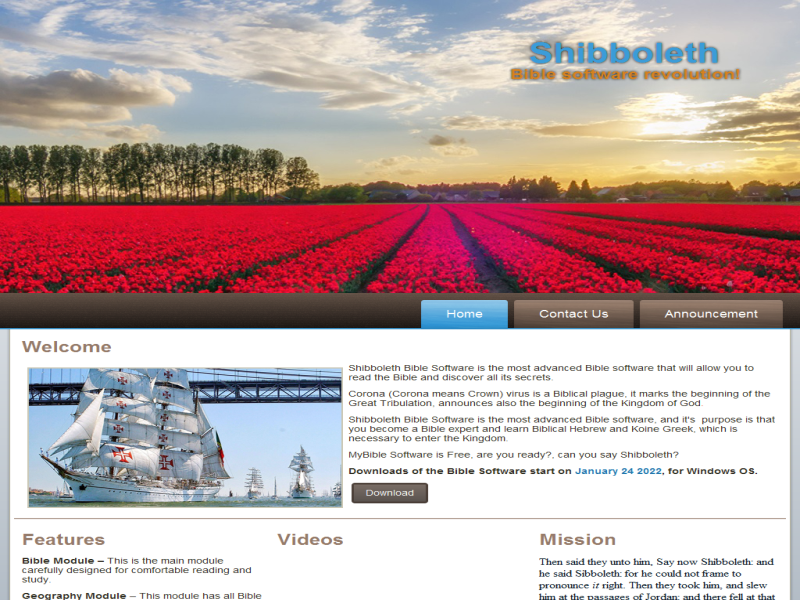
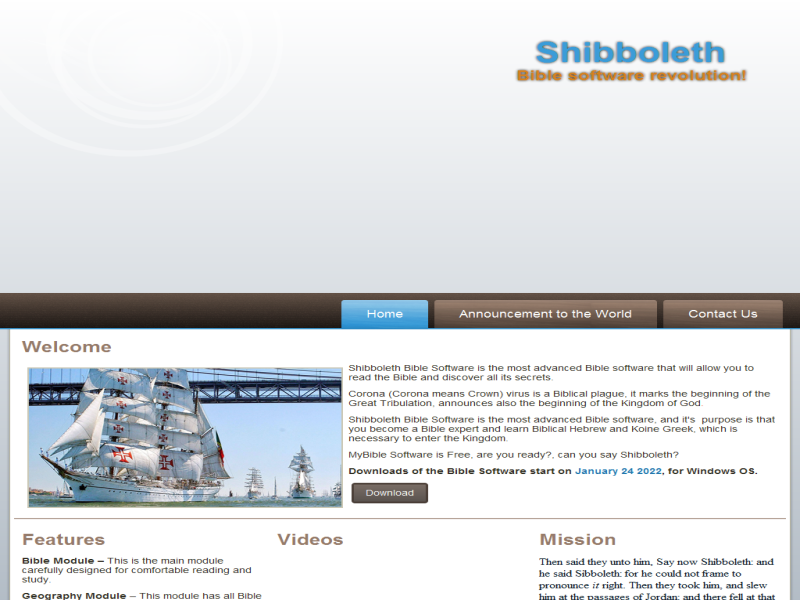
5

diff --git a/announcement-to-the-world.html b/announcement-to-the-world.html
@@ -1,0 +1,79 @@
+<!DOCTYPE html>
+<html dir="ltr" lang="en-US"><head><!-- Created by Artisteer v4.3.0.60858 -->
+    <meta charset="utf-8">
+    <title>The Shibboleth Group announces to the World</title>
+    <meta name="viewport" content="initial-scale = 1.0, maximum-scale = 1.0, user-scalable = no, width = device-width">
+
+    <!--[if lt IE 9]><script src="https://html5shiv.googlecode.com/svn/trunk/html5.js"></script><![endif]-->
+    <link rel="stylesheet" href="style.css" media="screen">
+    <!--[if lte IE 7]><link rel="stylesheet" href="style.ie7.css" media="screen" /><![endif]-->
+    <link rel="stylesheet" href="style.responsive.css" media="all">
+
+<link rel="shortcut icon" href="favicon.ico" type="image/x-icon">
+    <script src="jquery.js"></script>
+    <script src="script.js"></script>
+    <script src="script.responsive.js"></script>
+<script src="https://www.w3counter.com/tracker.js?id=135801"></script>
+
+
+</head>
+<body>
+<div id="art-main">
+<header class="art-header">
+
+    <div class="art-shapes">
+        
+            </div>
+
+<h1 class="art-headline">
+    <a href="/">Shibboleth</a>
+</h1>
+<h2 class="art-slogan">Bible software revolution!</h2>
+
+
+
+
+
+                        
+                    
+</header>
+<nav class="art-nav">
+    <div class="art-nav-inner">
+    <ul class="art-hmenu"><li><a href="software.html" class="">Home</a></li><li><a href="announcement-to-the-world.html" class="active">Announcement to the World</a></li><li><a href="contact.html">Contact Us</a></li></ul> 
+        </div>
+    </nav>
+<div class="art-sheet clearfix">
+            <div class="art-layout-wrapper">
+                <div class="art-content-layout">
+                    <div class="art-content-layout-row">
+                        <div class="art-layout-cell art-content"><article class="art-post art-article">
+                                
+                                                
+                <div class="art-postcontent art-postcontent-0 clearfix"><p><span style="font-weight: bold; font-size: 26px;">The Shibboleth Group announces to the World</span></p><p><img width="540" height="303" alt="" class="art-lightbox" src="images/red-neon-cross-on-top-of-hill-w-city-lights.jpg"><span style="font-weight: bold; font-size: 26px;"><br></span></p><p>The shibboleth Group announces to the World that German studies have confirmed irreversible damage to the organs of those who have taken the Covid vaccine.</p><p><br></p><p><a href="https://www.express.co.uk/news/science/1545256/omicron-warning-organ-damage-heart-lungs-kidney-covid-variant-germany">https://www.express.co.uk/news/science/1545256/omicron-warning-organ-damage-heart-lungs-kidney-covid-variant-germany</a><br></p><p><a href="https://hamburg-news.hamburg/en/location/uke-presents-results-worlds-largest-study-coronavirus">https://hamburg-news.hamburg/en/location/uke-presents-results-worlds-largest-study-coronavirus</a><br></p><p><br></p><p>Unvaccinated persons are immune to the Omicron variant and to organ damage.</p><p><br></p><p>This organ damage is caused by the immune system of the vaccinated attacking the organs, the immune system has marked the organs as disease, because of the spike protein in the vaccine, their immune system will attack the organs until they are dead and so the Vaccinated persons.</p><p>This would lead to the dead of 7 Billion vaccinated in 2022.</p><p><br></p><p><span style="font-weight: bold; color: #E2341D;">The Shibboleth Group announces that the Covid vaccine is the MARK OF THE BEAST, which the Bible warns about.</span></p><p><span style="font-weight: bold; color: #E2341D;"><br></span></p><p><span style="font-weight: bold;">Don't take it under any circumstance.</span></p><p><br></p><p>The Shibboleth Groups announces that the Unvaccinated will inherit the Earth.</p><p><br></p><p><span style="font-weight: bold;">The Shibboleth Group announces that this group is now in charge of the Establishment of the KINGDOM OF GOD.</span></p><p><br></p><p><span style="font-weight: bold; color: #3B9CD8;">The KINGDOM will be established under our guidance from the unvaccinated only.</span></p><p><span style="color: rgb(59, 156, 216); font-weight: bold;"><br></span></p><p>We will add more information as the events develop, spread this news.</p><p><br></p></div>
+                                
+                
+
+</article></div>
+                    </div>
+                </div>
+            </div>
+    </div>
+<footer class="art-footer">
+  <div class="art-footer-inner">
+<div class="art-content-layout">
+    <div class="art-content-layout-row">
+    <div class="art-layout-cell layout-item-0" style="width: 12%">
+        <p><a href="#" class="art-rss-tag-icon" style="line-height: 38px;">RSS</a><br></p>
+    </div><div class="art-layout-cell layout-item-1" style="width: 88%">
+        <p>Shibboleth Bible Software 2021, Lisbon Portugal</p>
+    </div>
+    </div>
+</div>
+
+  </div>
+</footer>
+
+</div>
+
+
+</body></html>

diff --git a/contact.html b/contact.html
@@ -76,7 +76,7 @@ StatCounter"></a></div></noscript>
 </header>
 <nav class="art-nav">
     <div class="art-nav-inner">
-    <ul class="art-hmenu"><li><a href="software.html" class="">Home</a></li><li><a href="contact.html" class="active">Contact Us</a></li><li><a href="announcement.html">Announcement</a></li></ul> 
+    <ul class="art-hmenu"><li><a href="software.html" class="">Home</a></li><li><a href="announcement-to-the-world.html" class="">Announcement to the World</a></li><li><a href="contact.html" class="active">Contact Us</a></li></ul> 
         </div>
     </nav>
 <div class="art-sheet clearfix">

diff --git a/index.html b/index.html
@@ -339,7 +339,7 @@ height: 10px;
 </header>
 <nav class="art-nav">
     <div class="art-nav-inner">
-    <ul class="art-hmenu"><li><a href="software.html" class="active">Home</a></li><li><a href="contact.html">Contact Us</a></li><li><a href="announcement.html">Announcement</a></li></ul> 
+    <ul class="art-hmenu"><li><a href="software.html" class="active">Home</a></li><li><a href="announcement-to-the-world.html">Announcement to the World</a></li><li><a href="contact.html">Contact Us</a></li></ul> 
         </div>
     </nav>
 <div class="art-sheet clearfix">

diff --git a/software.html b/software.html
@@ -339,7 +339,7 @@ height: 10px;
 </header>
 <nav class="art-nav">
     <div class="art-nav-inner">
-    <ul class="art-hmenu"><li><a href="software.html" class="active">Home</a></li><li><a href="contact.html">Contact Us</a></li><li><a href="announcement.html">Announcement</a></li></ul> 
+    <ul class="art-hmenu"><li><a href="software.html" class="active">Home</a></li><li><a href="announcement-to-the-world.html">Announcement to the World</a></li><li><a href="contact.html">Contact Us</a></li></ul> 
         </div>
     </nav>
 <div class="art-sheet clearfix">
